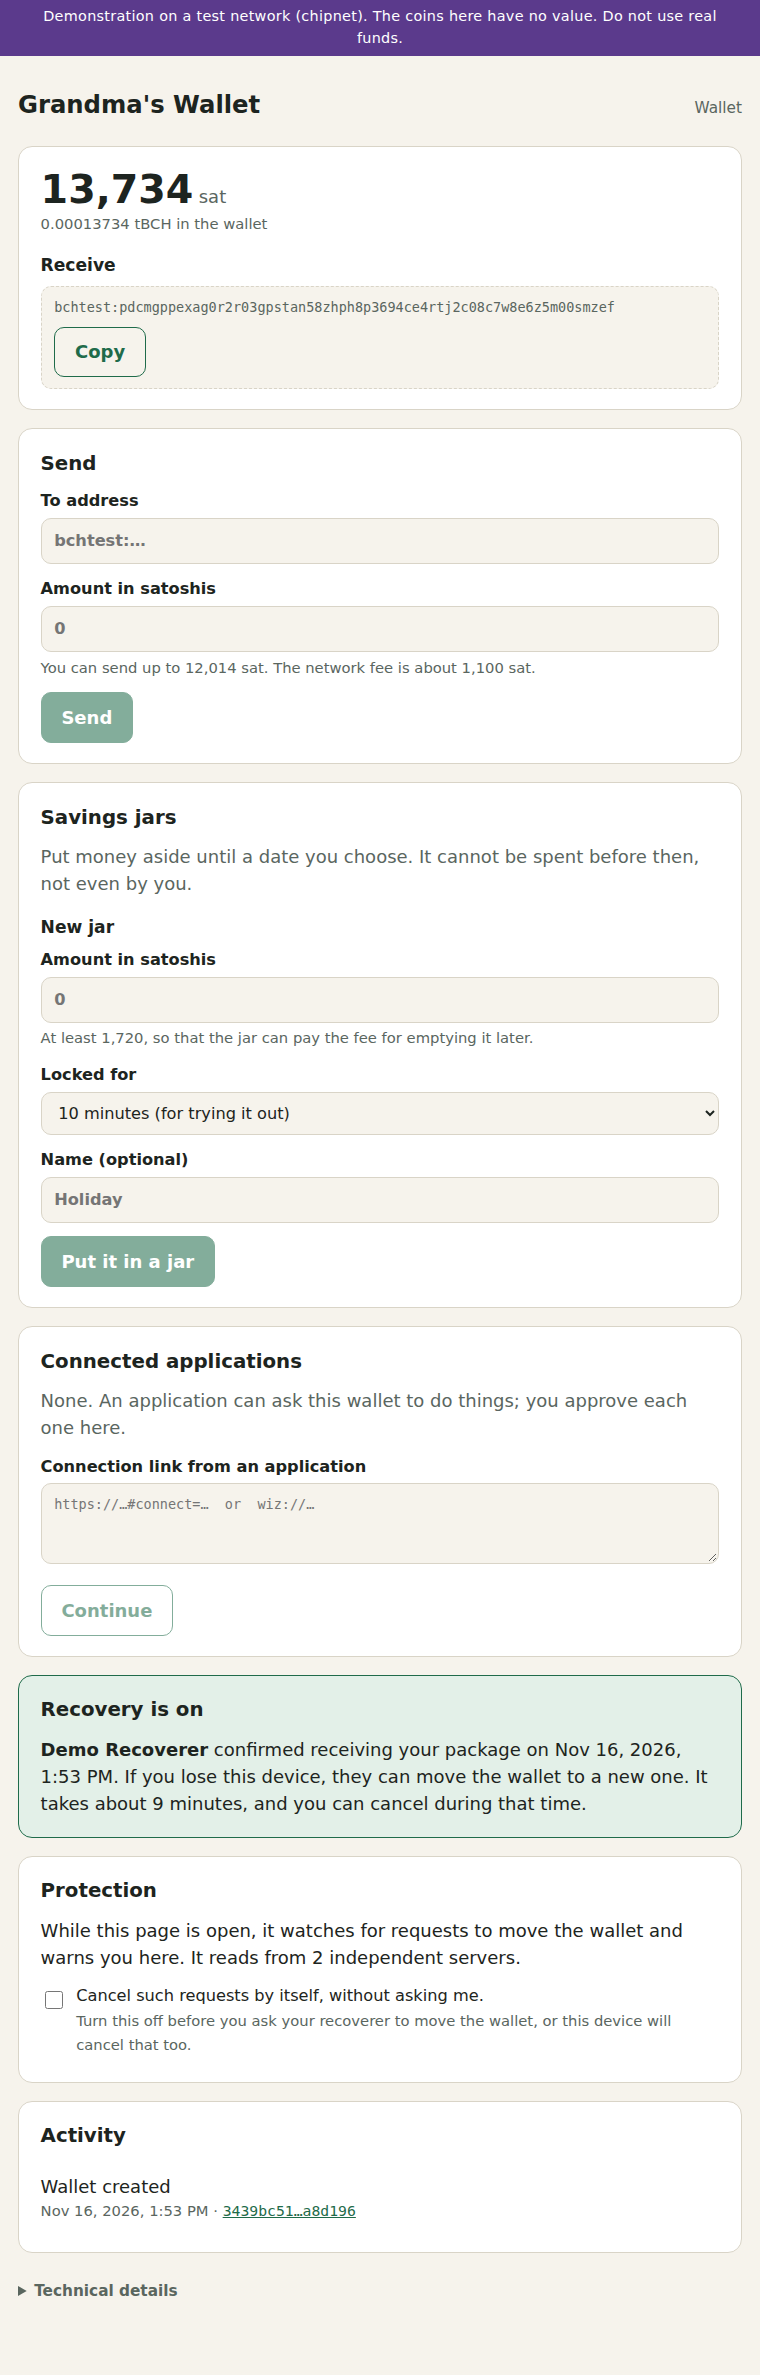
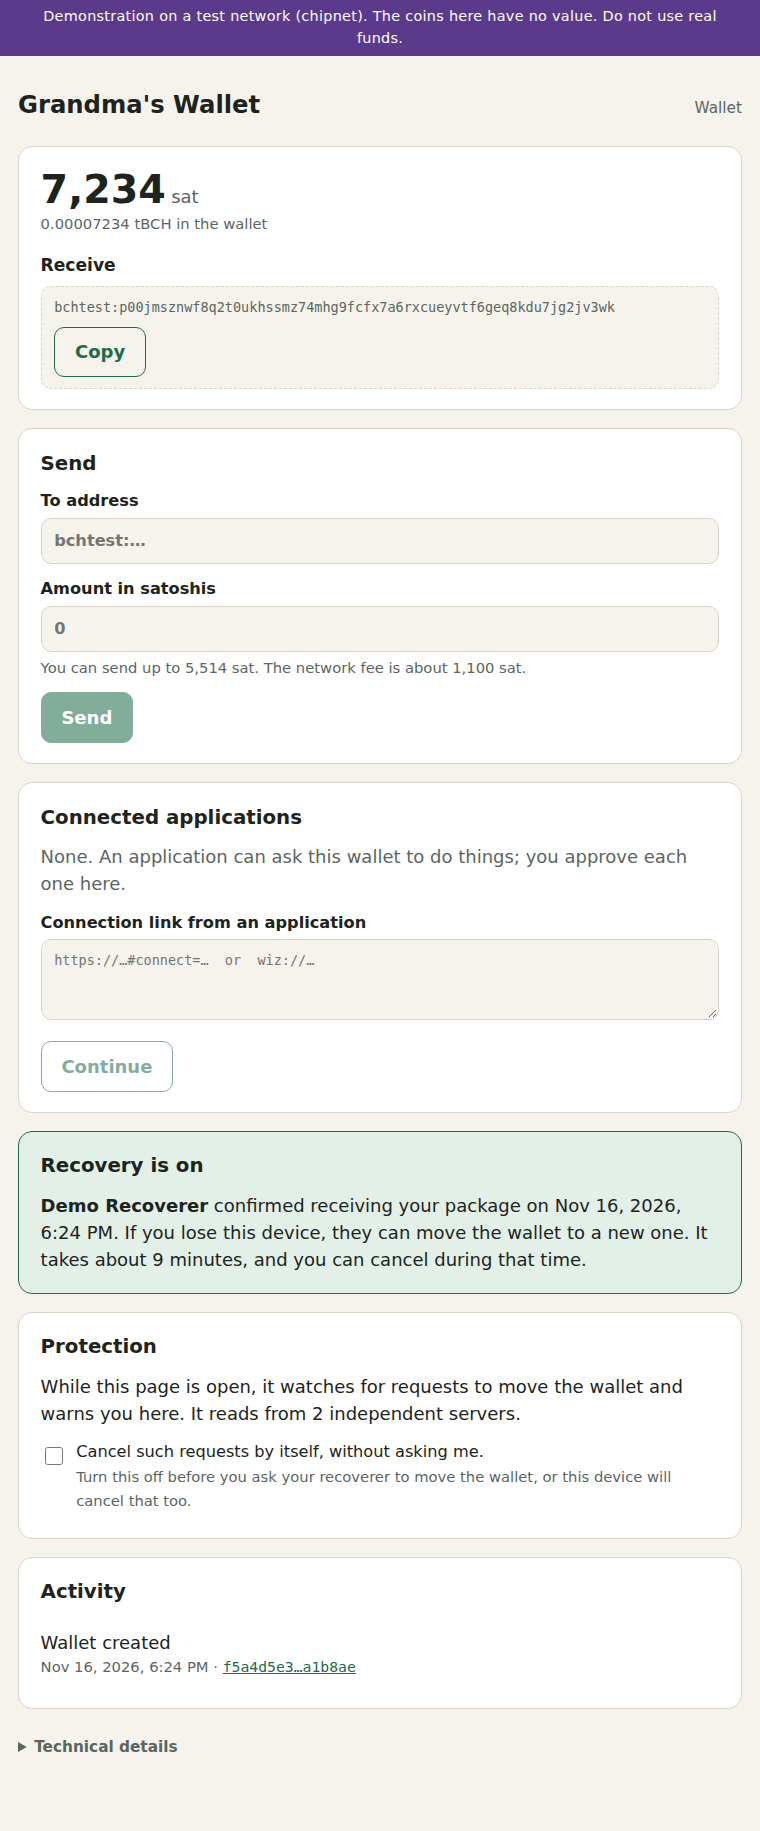
Record the chipnet runs of the wallet with an unknown application and of ordinary wallets
The web applications document lists the transactions and screens of a full
run in which the wallet trusted an application's template it had never
seen, kept the resulting position through a recovery, and emptied it on
the new device from the template alone. It also lists the runs of the same
application with Cashonize and with a command-line wallet.

Changed region(s): [[0.0, 0.0, 1.0, 0.965], [0.8776, 0.8094, 0.9079, 0.8405]]

diff --git a/docs/web-apps.md b/docs/web-apps.md
@@ -159,26 +159,45 @@ node scripts/jar-cashonize-demo.mjs --config deploy/config/production.json --ste
 
 ## What was run
 
-On 16 November 2026, on chipnet, with the script above. Screens and transactions are from the browsers; every transaction was built and signed by the XO engine in the page and passed this project's own evaluation before it was sent.
+On 16 November 2026, on chipnet, against the public addresses, with the scripts above. Screens and transactions are from the browsers; every transaction of the wallet was built and signed by the XO engine in the page and passed this project's own evaluation before it was sent.
 
[1 lines of base64/hex data omitted]
+### The wallet, with an application it had never seen
+
[1 lines of base64/hex data omitted]
 
 | # | Step | Done on | Transaction | Screen |
 | --- | --- | --- | --- | --- |
[2 lines of base64/hex data omitted]
 | 2 | Recoverer opens the package and confirms; the wallet shows "Recovery is on" | recoverer's page | — | [06-owner-recovery-on.png](web-demo/06-owner-recovery-on.png) |
[5 lines of base64/hex data omitted]
-| 8 | The new device opens the wallet: funds and jar found; the earlier device shows the wallet has moved | new device | — | [15-new-device-taken-over.png](web-demo/15-new-device-taken-over.png) |
[2 lines of base64/hex data omitted]
+| 3 | The Savings Jar shows a WizardConnect address; the owner pastes it into the wallet | application and owner's page | — | [07-jar-connect.png](web-demo/07-jar-connect.png) |
+| 4 | The application asks for a jar. The wallet shows the template it has not seen; the owner trusts it | owner's page | — | [08-owner-template.png](web-demo/08-owner-template.png) |
[5 lines of base64/hex data omitted]
+| 10 | The new device opens the wallet: funds, the jar and the jar's template found; the earlier device shows the wallet has moved | new device | — | [18-new-device-taken-over.png](web-demo/18-new-device-taken-over.png) |
[2 lines of base64/hex data omitted]
 
-All seventeen screens of the run are in [web-demo/](web-demo/).
+### The same application with ordinary wallets
 
-Three earlier runs the same day stopped part-way and led to fixes: fee coins held by a request that was started or not sent; the recoverer's fee allowance, which covered two actions and now covers four; a page reading its own transaction from a server that had not received it yet; and the smallest amount allowed at the wallet's address (576 satoshis, not 546). One of those runs used a waiting period counted in blocks; see the limits below.
+| Wallet | Step | Transaction | Screen |
+| --- | --- | --- | --- |
+| Cashonize (web, HD wallet on chipnet) | Connects with the address from the page; shares its public keys after asking the user | — | [cashonize-1-connect.png](web-demo/cashonize-1-connect.png) |
[4 lines of base64/hex data omitted]
+
+### What the runs found
+
+Two runs of the wallet stopped at step 11 before the one above. Nothing was sent that should not have been, and the coins of both were returned with `scripts/rescue-wallet.ts`.
+
+- **A template restored from the backup was a different template to the engine.** An XO template's identifier depends on the order of its fields, and the archive wrote them sorted. Templates are now kept as the text they arrived in.
+- **A jar could be paid into and not emptied.** Its unlock time was declared as `timestamp`; the engine reads such a value back as text when it unlocks an output, and builds a different script. The wallet's own check refused the transaction each time. The template now declares an `integer`, and the wallet declines to trust a template with a `timestamp` variable.
+
+Earlier the same day, with the first version of the pages: fee coins held by a request that was started or not sent; the recoverer's fee allowance, which covered two actions and now covers four; a page reading its own transaction from a server that had not received it yet; the smallest amount allowed at the wallet's address (576 satoshis, not 546); and a waiting period counted in blocks, for which see the limits below.
 
 ## Limits
 

diff --git a/docs/xo-feedback-notes.md b/docs/xo-feedback-notes.md
@@ -37,6 +37,6 @@ Format: date — what was tried — what happened — steps to reproduce if it i
 - 16 Nov 2026 — A wallet that carries out actions of templates it has never seen needs to ask "what would this action do?". That works with what the engine has: `createInvitation` on the template, `appendInvitation` with the transaction's outputs, `buildInvitationTransactionFromMergedCommit`, then `archiveInvitation`. The unsigned transaction gives each output's script and amount, the lock time from a `locktime` expression, and the inputs' sequence numbers, with a made-up outpoint as input. A method that returns this without storing an invitation would be simpler and would not need the clean-up.
 - 16 Nov 2026 — Appending an output to an invitation makes the account follow that output's script from then on, and it stays followed after the invitation is archived. Useful (it is how a device taking a wallet over starts following a position), but nothing in the documentation says so, and there is no direct way to follow a script of a template for given variables other than through the default policy, which covers one locking script per template.
 - 16 Nov 2026 — An invitation belongs to one template. A transaction that needs inputs and outputs of two templates (a wallet's controller and an application's position) works when it is an invitation of one template with the other's outputs given as plain outpoints and raw outputs: inputs are unlocked by the script the account follows them under. The other template's transaction definition (its lock time, its outputs) is then not applied and has to be read out separately, as above.
-- 16 Nov 2026 — A variable of type `timestamp` given as a number locks correctly and cannot be unlocked. The value is stored with the script hash as text (`1794847127`); `parseStoredVariableValue` turns stored text back into a number for `integer`, `bigint`, `satoshis` and `token_amount` only, and `convertInvitationVariableValueForCompiler` then takes the text for hex because it consists of hex digits. The unlocking script is compiled with five other bytes in place of the number, and the node reports that the redeem script does not match. Reproduce: a pay-to-script-hash locking script with `<when>` in it, `when` of type `timestamp`; pay to it, then spend it. With type `integer` the same template works. A wallet would like `timestamp`, to show the value as a date.
+- 16 Nov 2026 — A variable of type `timestamp` given as a number locks correctly and cannot be unlocked. The value is stored with the script hash as text (`1794847127`); `parseStoredVariableValue` turns stored text back into a number for `integer`, `bigint`, `satoshis` and `token_amount` only, and `convertInvitationVariableValueForCompiler` then takes the text for hex because it consists of hex digits. The unlocking script is compiled with five other bytes in place of the number, so the redeem script no longer hashes to the output's address; evaluating the transaction locally reports exactly that. Reproduce: a pay-to-script-hash locking script with `<when>` in it, `when` of type `timestamp`; pay to it, then spend it. With type `integer` the same template works. A wallet would like `timestamp`, to show the value as a date.
 - 16 Nov 2026 — A template's identifier depends on the order of its fields: the same template with its keys sorted gets another identifier (`generateTemplateIdentifier` gave `1ab1d4f0…` and `5f2b6007…` for the two). Anything that stores a template as JSON and writes it back in another order, as a canonical encoding does, silently produces a different template, with different keys for templates that have any. Found when a device restoring a wallet could not find the template its records named.
 

diff --git a/docs/decisions.md b/docs/decisions.md
@@ -231,7 +231,7 @@ The formats and rules are described in `docs/restoration.md`. The choices made:
 
 ## D12 — Applications bring their own template; the wallet knows none
 
-**Date:** 16 Nov 2026 · **Status:** implemented; replaces the two entries of D11 on requests from applications and on key paths
+**Date:** 16 Nov 2026 · **Status:** implemented and run end to end on chipnet in browsers (`docs/web-apps.md`); replaces the two entries of D11 on requests from applications and on key paths
 
 - **The wallet has no code for any application.** The Savings Jar's contract, script and XO template live with the application (`packages/savings-jar`, `apps/jar`). A test fails if the wallet, the recoverer or their libraries mention it.
 - **An application presents its XO template with its request.** The wallet checks that the template is the one the request names (XO identifier and content hash). A template it has not seen is shown to the user, by name, description and actions, to trust and remember or to decline. A trusted template is kept by the engine and, whole, in the archive.
@@ -250,4 +250,6 @@ The formats and rules are described in `docs/restoration.md`. The choices made:
 - An application action whose inputs need a relative time lock is refused for now. The sequence numbers the template asks for are known, but carrying them into the wrapping invitation has not been tried.
 - Actions that create tokens are refused for now; the wrapping passes amounts in satoshis only.
 - `xo_v1` is this project's own extension. No other wallet speaks it yet.
+- A template variable of type `timestamp` cannot be used in a script that is to be unlocked later: the engine reads the stored value back as text. The wallet declines such templates, and shows a whole number in the range of Unix times with the date it would be.
+- A template has to be kept as the text it arrived in. Its identifier depends on the order of its fields.
 
